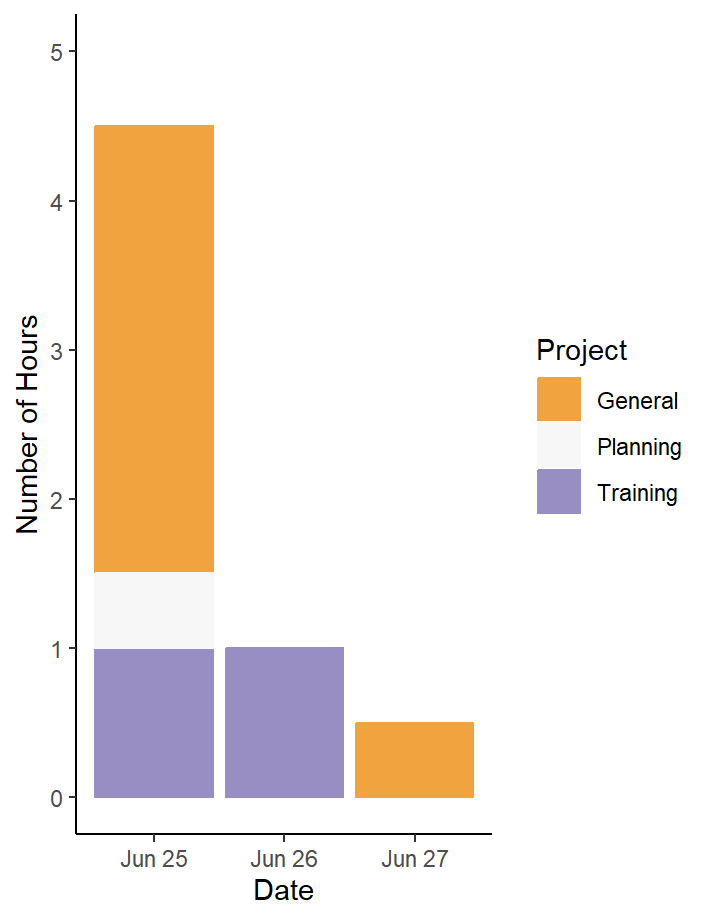
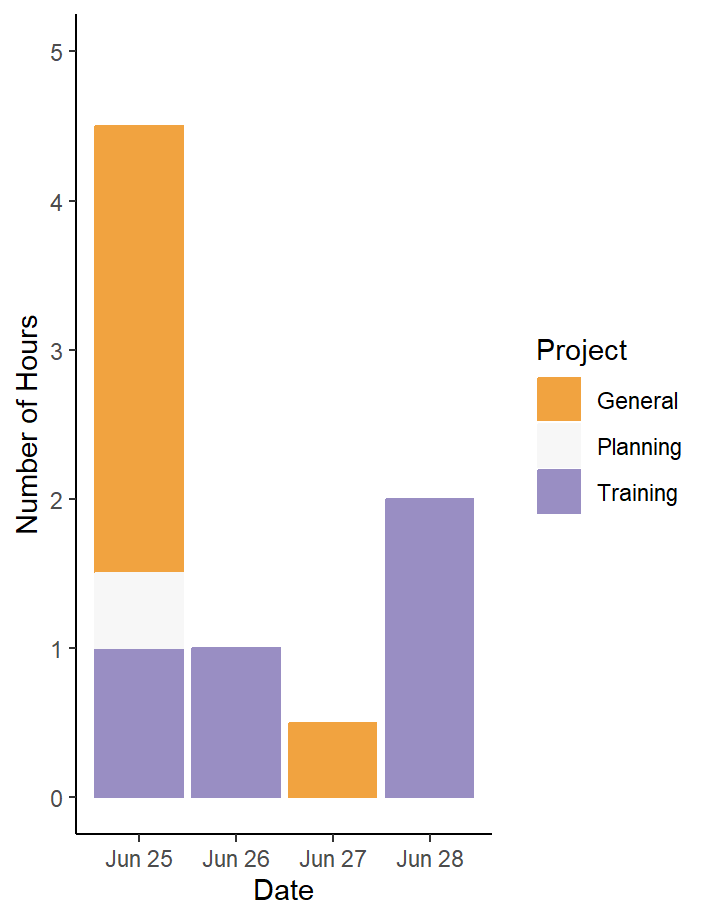
update

diff --git a/docs/index.html b/docs/index.html
@@ -1970,6 +1970,13 @@ class="section level3">
 etc.)</td>
 <td align="right">0.5</td>
 </tr>
+<tr class="even">
+<td align="left">2024-06-28</td>
+<td align="left">Friday</td>
+<td align="left">Training</td>
+<td align="left">Canada GCP - Stage 1 - Basic</td>
+<td align="right">2.0</td>
+</tr>
 </tbody>
 </table>
 </div>
